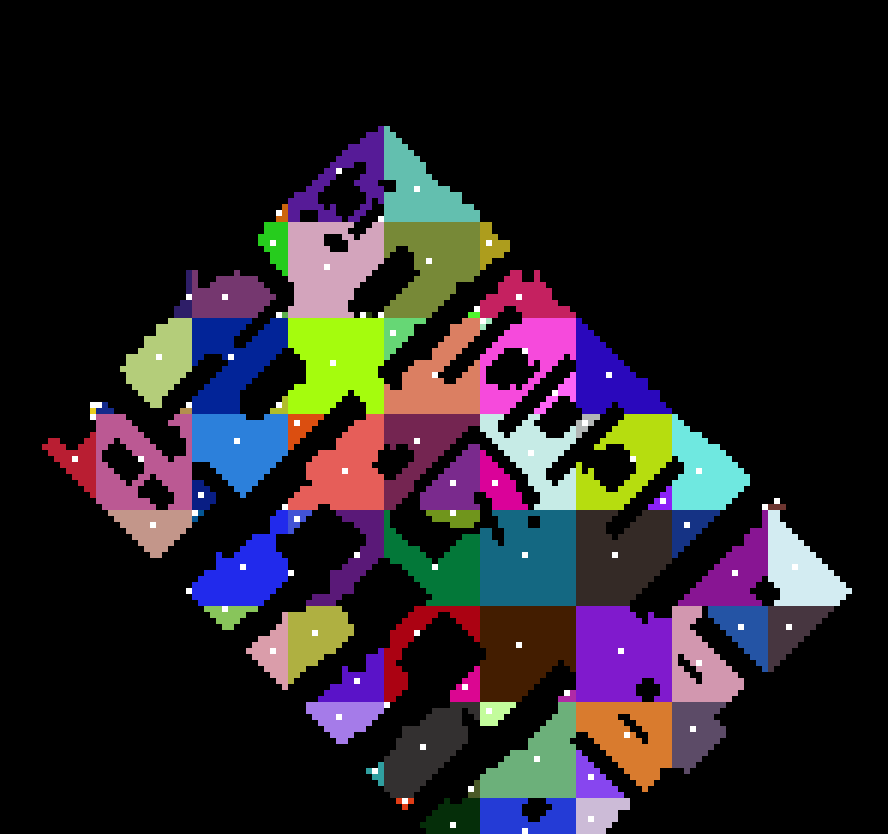
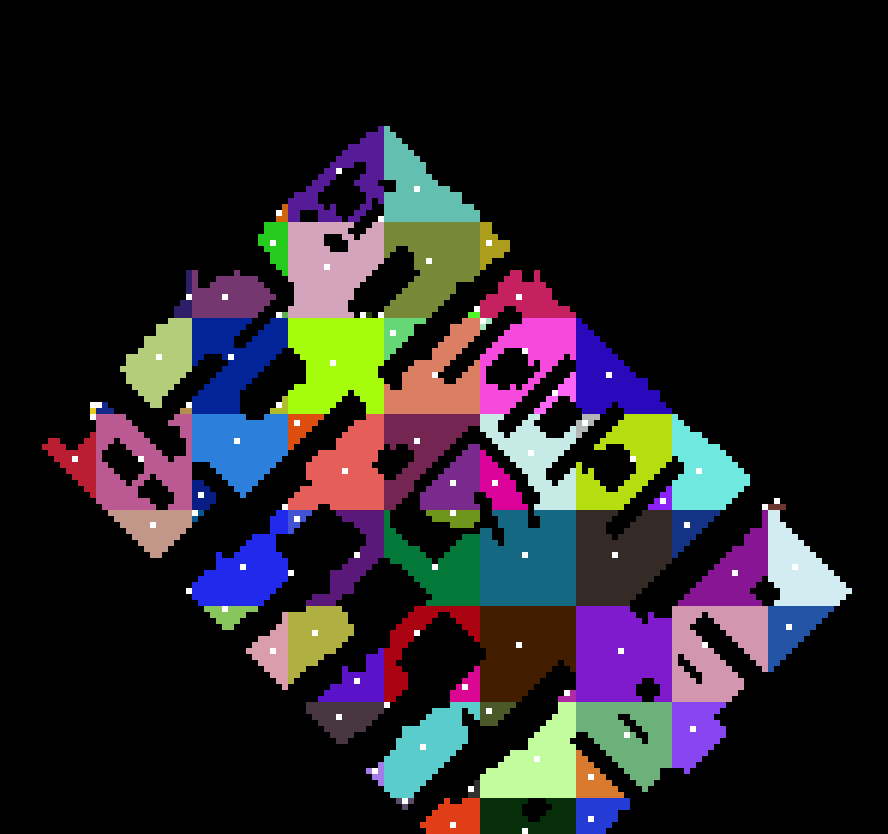
Figuring out whether region has become partitioned

Changed region(s): [[0.3345, 0.8417, 0.8209, 1.0], [0.7905, 0.717, 0.9426, 0.8106]]

diff --git a/src/EvaluateDynamicScenario.java b/src/EvaluateDynamicScenario.java
@@ -24,7 +24,7 @@ public class EvaluateDynamicScenario {
     public static void main(String[] args) {
         // set wall(s)
         ArrayList<SearchState> wallLocation = new ArrayList<>();
-        int wallLoc = 14325; // real region partition (14325) // fake partition (11928) // wall that partitions map (6157)
+        int wallLoc = 11928; // real region partition (14325) // fake partition (11928) // wall that partitions map (6157)
         SearchState wall = new SearchState(wallLoc);
         wallLocation.add(wall);
 
@@ -141,15 +141,14 @@ public class EvaluateDynamicScenario {
         // check if we can find a path from one side of the region to the other
         // TODO: ensure path does not leave region
         if (potentialVerticalPartition) {
-            AStar aStar = new AStar(new MapSearchProblem(map));
             // check that we can still reach west to east without leaving the region
-            boolean isPath = aStar.isPath(map.getId(wallRowId, wallColId - 1), map.getId(wallRowId, wallColId + 1), new StatsRecord());
+            boolean isPath = isPathPossible(map.squares, new int[]{wallRowId, wallColId - 1}, new int[]{wallRowId, wallColId + 1}, regionId);
             System.out.println("Can reach west to east: " + isPath);
         }
         if (potentialHorizontalPartition) {
             AStar aStar = new AStar(new MapSearchProblem(map));
             // check that we can still reach north to south without leaving the region
-            boolean isPath = aStar.isPath(map.getId(wallRowId - 1, wallColId), map.getId(wallRowId + 1, wallColId), new StatsRecord());
+            boolean isPath = isPathPossible(map.squares, new int[]{wallRowId - 1, wallColId}, new int[]{wallRowId + 1, wallColId}, regionId);
             System.out.println("Can reach north to south: " + isPath);
         }
 
@@ -329,5 +328,46 @@ public class EvaluateDynamicScenario {
 
     private static boolean isBetweenWallAndOtherRegion(int n1, int n2, int r) {
         return n1 == '*' && n2 != r || n1 != r && n2 == '*';
+    }
+
+    private static boolean isValid(int[][] map, boolean[][] visited, int row, int col, int r) {
+        int rows = map.length;
+        int cols = map[0].length;
+
+        return row >= 0 && row < rows && col >= 0 && col < cols && map[row][col] != '*' && map[row][col] == r && !visited[row][col];
+    }
+
+    // TODO: could likely optimize using A*
+    private static boolean isPathPossible(int[][] map, int[] start, int[] end, int r) {
+        int rows = map.length;
+        int cols = map[0].length;
+
+        boolean[][] visited = new boolean[rows][cols];
+
+        int[][] directions = { {1, 0}, {-1, 0}, {0, 1}, {0, -1} };
+
+        Queue<int[]> queue = new LinkedList<>();
+        queue.add(start);
+        visited[start[0]][start[1]] = true;
+
+        while (!queue.isEmpty()) {
+            int[] current = queue.poll();
+
+            if (Arrays.equals(current, end)) {
+                return true;  // Path exists
+            }
+
+            for (int[] dir : directions) {
+                int newRow = current[0] + dir[0];
+                int newCol = current[1] + dir[1];
+
+                if (isValid(map, visited, newRow, newCol, r)) {
+                    visited[newRow][newCol] = true;
+                    queue.add(new int[]{newRow, newCol});
+                }
+            }
+        }
+
+        return false;  // No path exists
     }
 }
